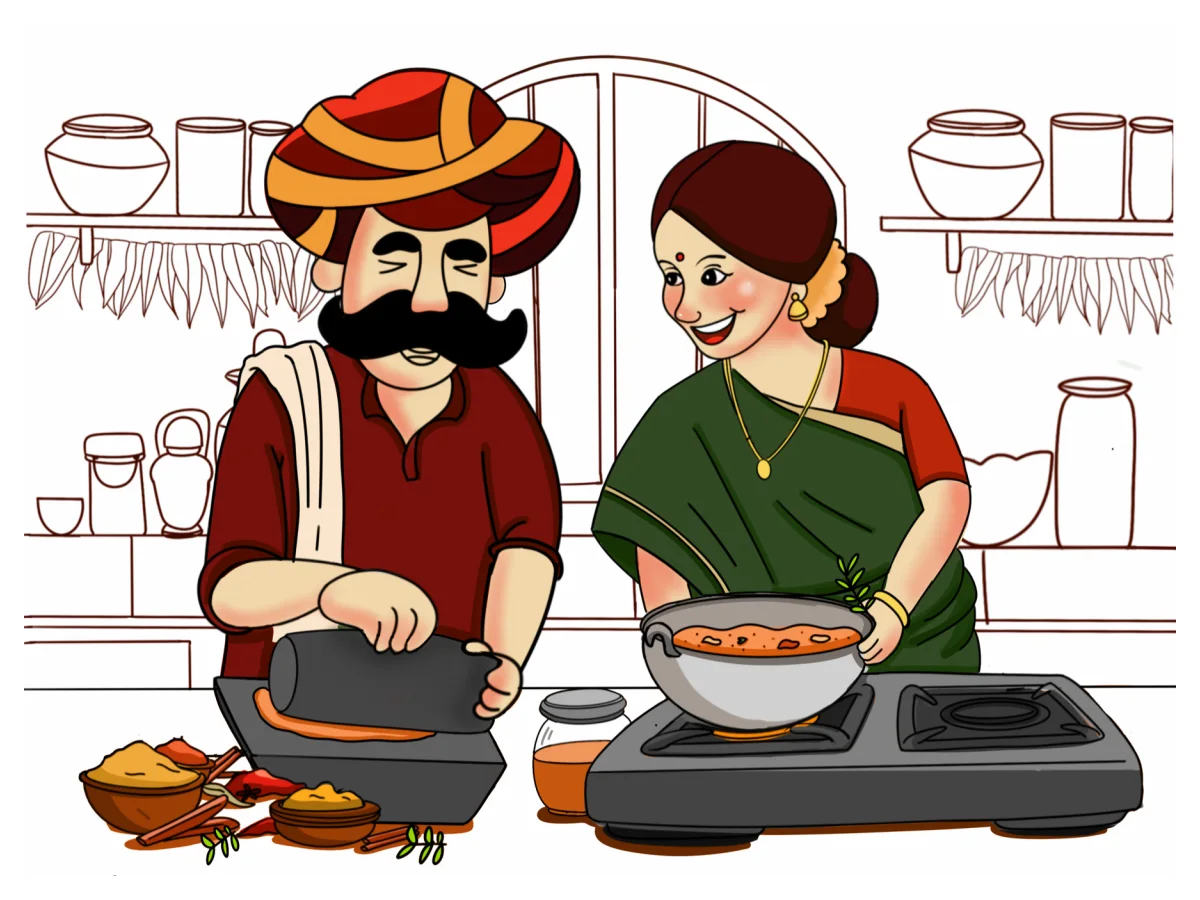
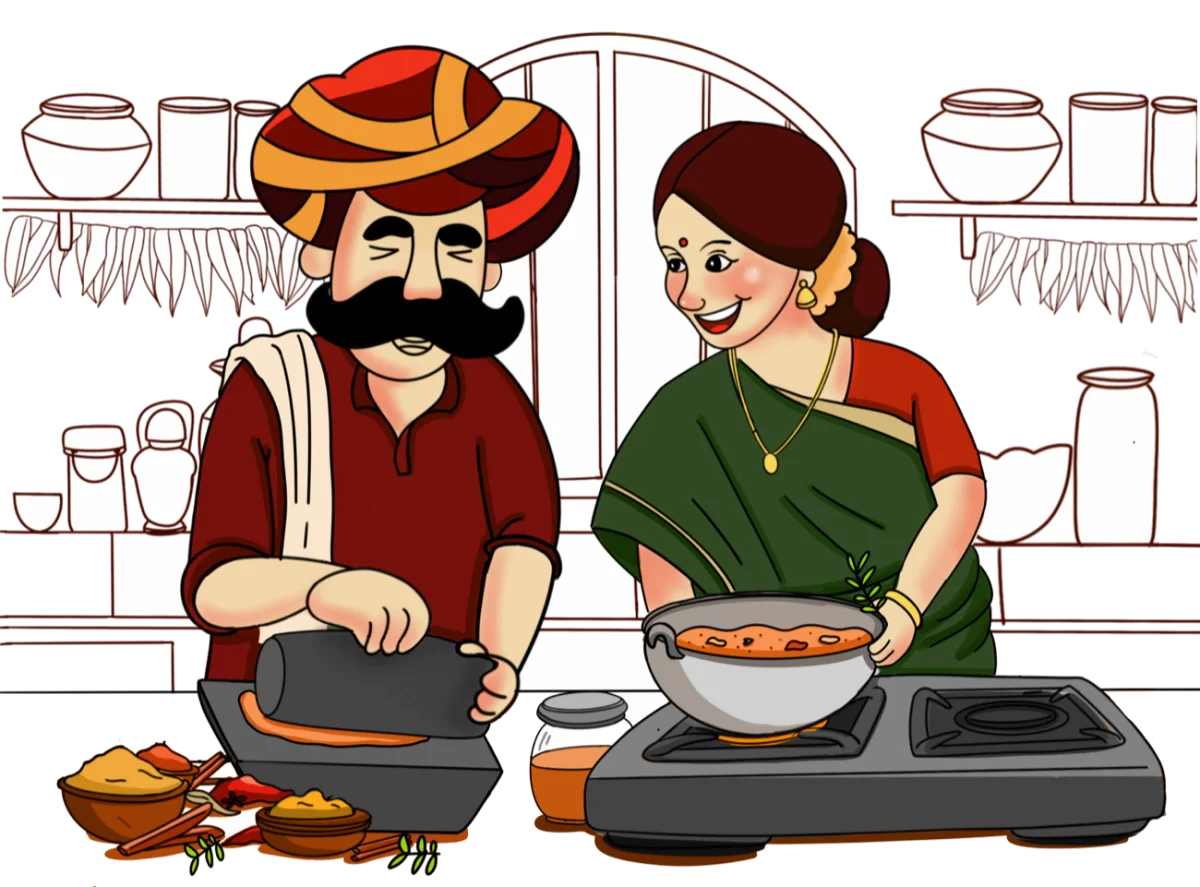
Kitchen artwork: natural shape on the page background, compact frame
Recipe illustrations keep their own proportions with transparent outer
backgrounds (no white box), capped at min(58vh, 480px) tall, no parallax zoom.

diff --git a/frontend/index.html b/frontend/index.html
@@ -115,7 +115,7 @@
   </div>
 
   <article class="recipe" id="r-rasam" role="tabpanel" aria-labelledby="t-rasam" tabindex="0">
-    <div class="dish"><img src="/assets/images/recipes/tomato-rasam.webp" width="1200" height="900" alt="Illustration: the Spice Mama couple cooking rasam at the stove" loading="lazy" decoding="async"></div>
+    <div class="dish"><img src="/assets/images/recipes/tomato-rasam.webp" width="1200" height="887" alt="Illustration: the Spice Mama couple cooking rasam at the stove" loading="lazy" decoding="async"></div>
     <div>
       <h3>Tomato rasam</h3>
       <p class="meta">Serves 4 · 25 minutes</p>
@@ -128,7 +128,7 @@
   </article>
 
   <article class="recipe" id="r-sambar" role="tabpanel" aria-labelledby="t-sambar" tabindex="0" hidden>
-    <div class="dish"><img src="/assets/images/recipes/vegetable-sambar.webp" width="1200" height="900" alt="Illustration: the Spice Mama couple tasting vegetable sambar" loading="lazy" decoding="async"></div>
+    <div class="dish"><img src="/assets/images/recipes/vegetable-sambar.webp" width="973" height="1200" alt="Illustration: the Spice Mama couple tasting vegetable sambar" loading="lazy" decoding="async"></div>
     <div>
       <h3>Mixed vegetable sambar</h3>
       <p class="meta">Serves 4 · 40 minutes</p>
@@ -141,7 +141,7 @@
   </article>
 
   <article class="recipe" id="r-methi" role="tabpanel" aria-labelledby="t-methi" tabindex="0" hidden>
-    <div class="dish"><img src="/assets/images/recipes/aloo-methi-fry.webp" width="1200" height="900" alt="Illustration: the Spice Mama family cooking with kasuri methi" loading="lazy" decoding="async"></div>
+    <div class="dish"><img src="/assets/images/recipes/aloo-methi-fry.webp" width="1018" height="1200" alt="Illustration: the Spice Mama family cooking with kasuri methi" loading="lazy" decoding="async"></div>
     <div>
       <h3>Aloo methi fry</h3>
       <p class="meta">Serves 3 · 25 minutes</p>

diff --git a/frontend/assets/css/home.css b/frontend/assets/css/home.css
@@ -118,9 +118,10 @@ html:not(.motion) .progress { display: none }
 @keyframes fade-up { from { opacity: 0; transform: translateY(10px) } }
 .dish { position: relative; border-radius: var(--r-xl); overflow: hidden; aspect-ratio: 4 / 3; background: #e9dcc6 }
 .dish img { width: 100%; height: 115%; object-fit: cover; transform: translateY(var(--par, 0px)) }
-/* Recipe images are the family illustrations (whole artwork on white): show them in full, no parallax zoom. */
-.kitchen .dish { background: #fff }
-.kitchen .dish img { height: 100%; object-fit: contain; transform: none }
+/* Recipe images are the family illustrations: the frame hugs each image at its own shape (no fixed
+   4:3 box, no backdrop, no parallax zoom), capped in height so tall artwork stays compact. */
+.kitchen .dish { aspect-ratio: auto; background: none; overflow: visible; border-radius: 0; justify-self: start; max-width: 100% }
+.kitchen .dish img { display: block; width: auto; height: auto; max-width: 100%; max-height: min(58vh, 480px); object-fit: unset; transform: none; border-radius: var(--r-xl) }
 .dish .tagph { position: absolute; left: 14px; bottom: 14px; background: rgba(251, 244, 230, .94); color: var(--ink); font-size: .8rem; font-weight: 500; border-radius: var(--r-sm); padding: 6px 10px 4px; border: 1.5px dashed var(--ink-soft); max-width: 80% }
 .recipe h3 { font-size: clamp(32px, 3vw, 52px); margin-bottom: 6px }
 .recipe .uses { display: flex; align-items: center; gap: 12px; margin: 14px 0 22px; font-weight: 600; font-size: .95rem; text-decoration: none; width: fit-content; border-radius: var(--r-md) }

diff --git a/frontend/assets/images/SOURCES.md b/frontend/assets/images/SOURCES.md
@@ -6,6 +6,6 @@ Derived web images and the repository original they come from (originals in `Ima
 |---|---|---|
 | `campaign/pounding-scene.webp` | `Images/WhatsApp Image 2026-10-27 at 06.26.37.jpeg` (Guntur Gold pack front) | crop x628 y418 327×545 (inside the pack's red panel), WebP q86; used on `maintenance.html` |
 | `packs/<slug>.webp`, `packs/<slug>-sm.webp` (10 products + `red-chilli-pickle`) | `~/Downloads/Spicemama_Mockup/*.png` (owner-supplied pack mockups, 2026-11-07) | transparent margins trimmed, 1100 px tall (`-sm`: 400 px wide), WebP q86 with alpha. Not yet replaced: `oont-chap-chilli-powder` (no mockup supplied) |
-| `recipes/tomato-rasam.webp` | `~/Downloads/Spice mama art/Rasam.jpg` | whole artwork centred on white in 1200×900, WebP q84 |
-| `recipes/vegetable-sambar.webp` | `~/Downloads/Spice mama art/Sambar.jpg` | whole artwork centred on white in 1200×900 |
-| `recipes/aloo-methi-fry.webp` | `~/Downloads/Spice mama art/kasuri methi copy.png` | transparency flattened on white, whole artwork centred in 1200×900 |
+| `recipes/tomato-rasam.webp` | `~/Downloads/Spice mama art/Rasam.jpg` | outer white background made transparent (flood fill from edges), trimmed, 1200 px max, WebP q84 |
+| `recipes/vegetable-sambar.webp` | `~/Downloads/Spice mama art/Sambar.jpg` | outer white background made transparent (flood fill from edges), trimmed, 1200 px max |
+| `recipes/aloo-methi-fry.webp` | `~/Downloads/Spice mama art/kasuri methi copy.png` | transparent background kept, empty margins trimmed, 1200 px max |
